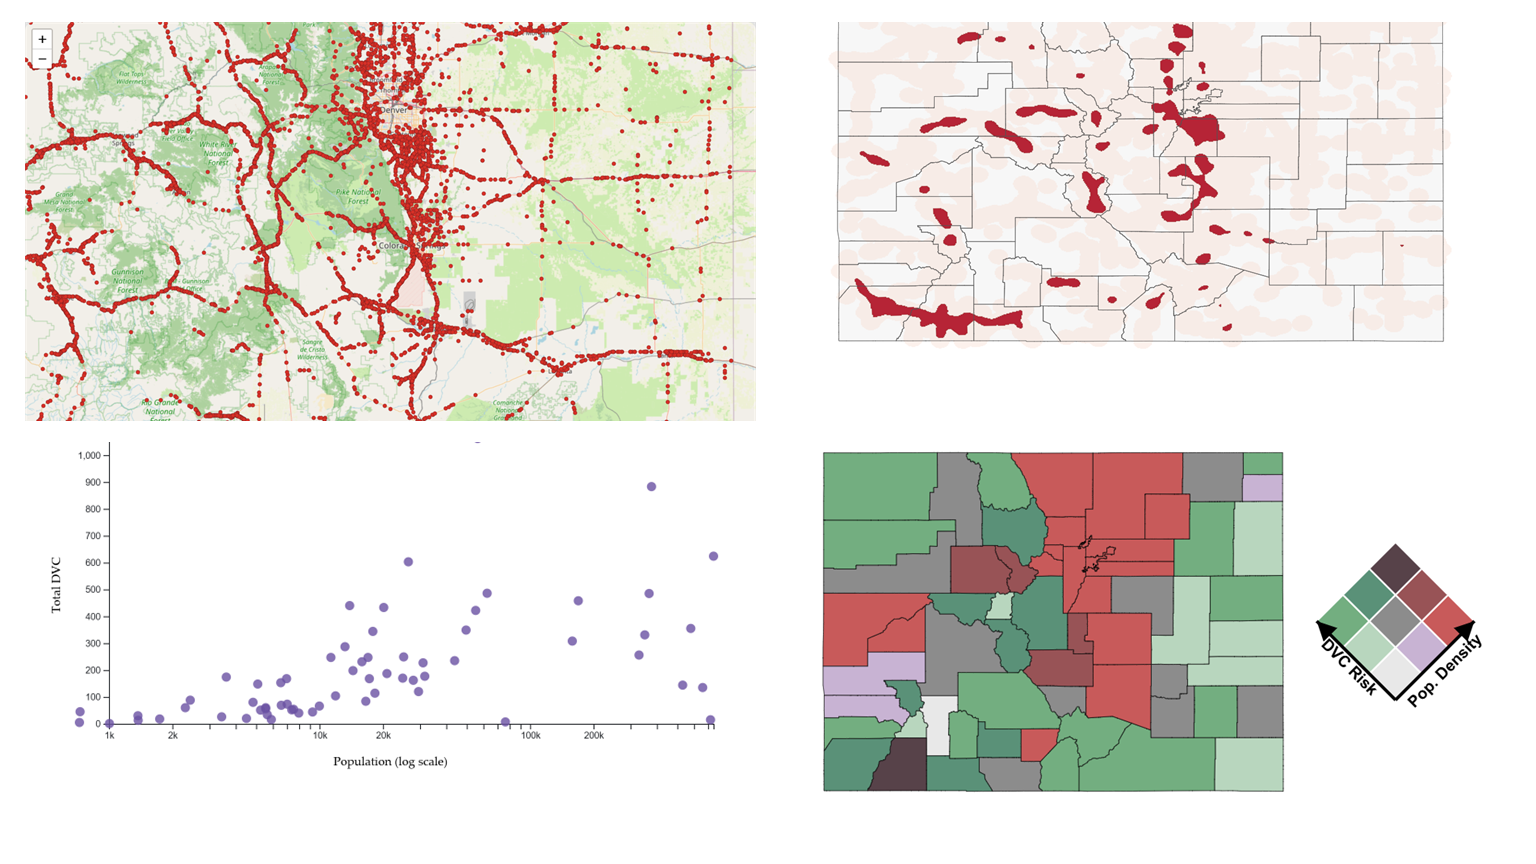
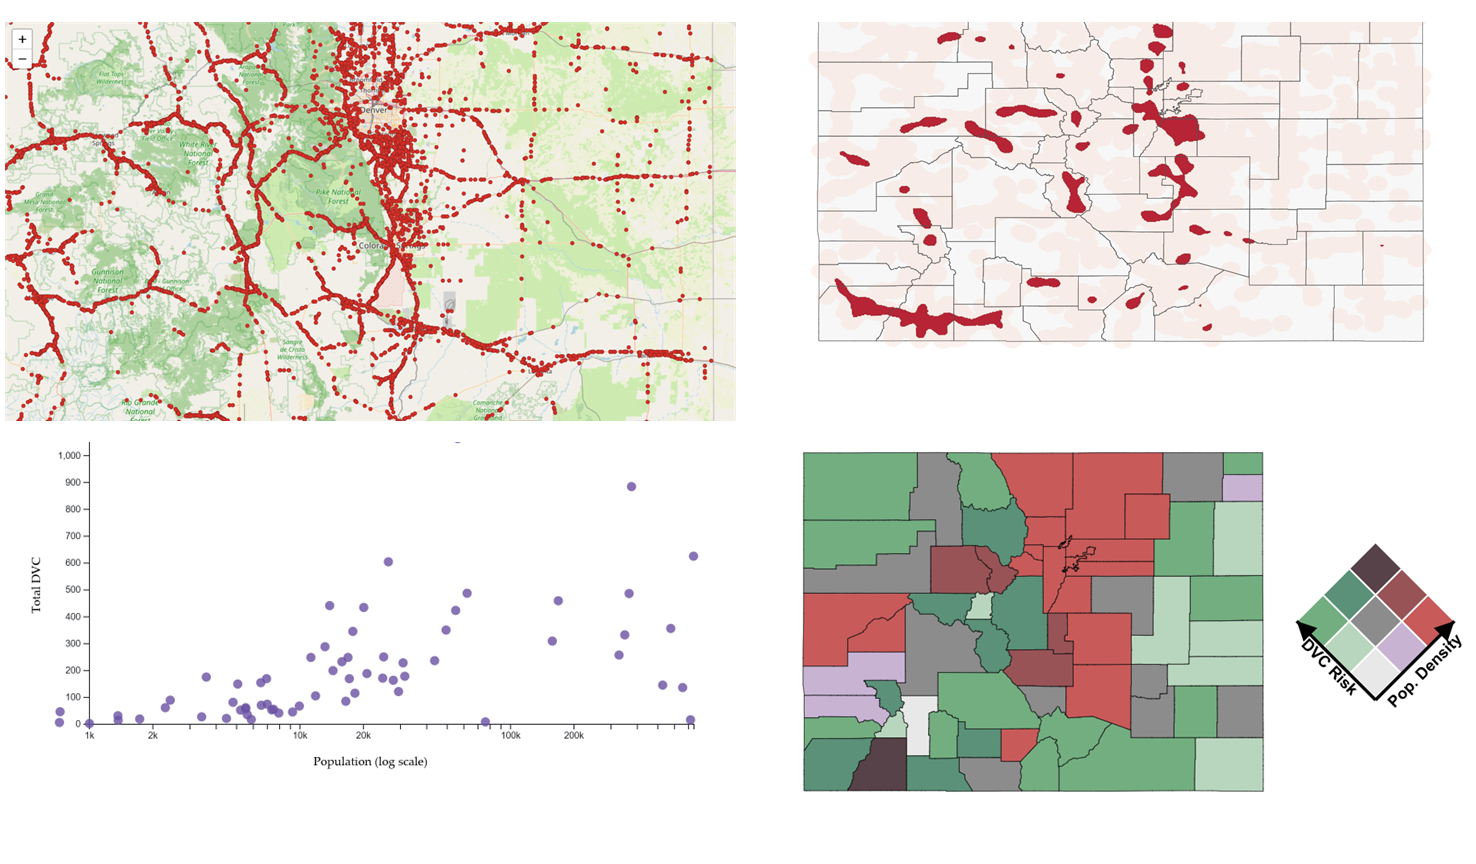
replaced final project image in my portfolio

diff --git a/index.html b/index.html
@@ -245,7 +245,7 @@ This visual analytics application combines small multiple choropleth mapping and
 
         <a href="dvc-colorado-project\index.html">
 
-          <img src="images/finalproj.png"
+          <img src="images/finalproj5.png"
                alt="Colorado DVC final project"
                class="img-fluid w-100 final-project-img">
 
@@ -349,7 +349,7 @@ My research applies spatial thinking and interactive geovisual analytics to real
 
           </a>
 
-          <a href="mailto:your_email_here@gmail.com"
+          <a href="mailto:akinwale-oladimeji@uiowa.edu@gmail.com"
              class="btn btn-outline-dark btn-lg">
 
             Contact Me
